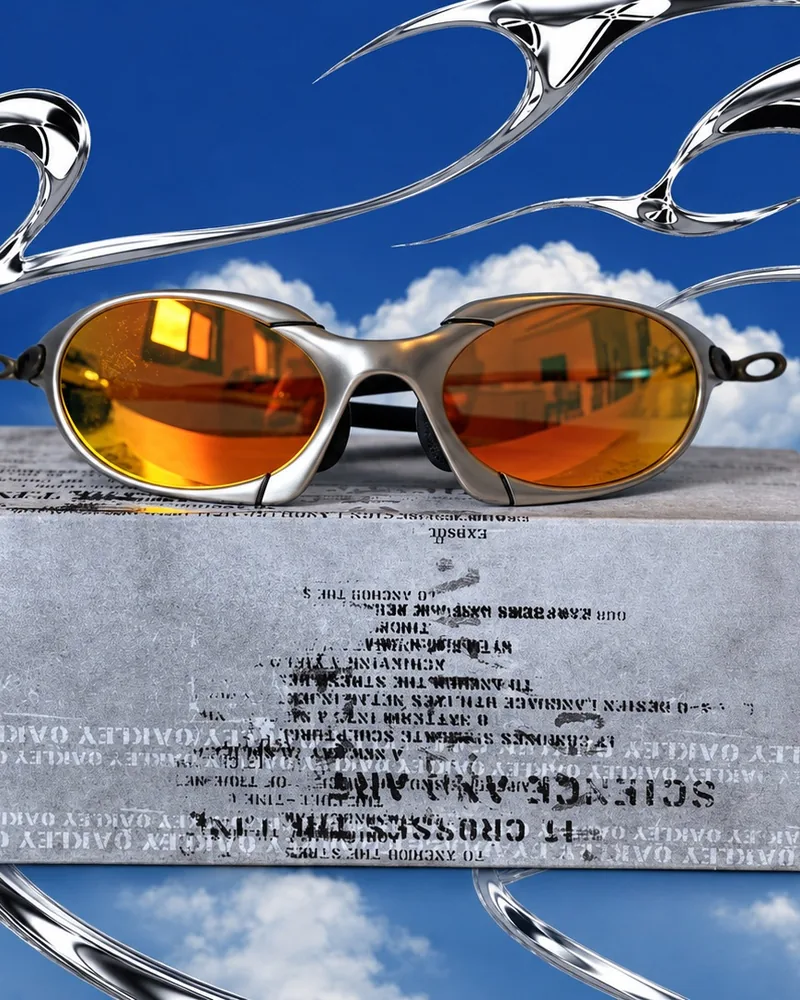
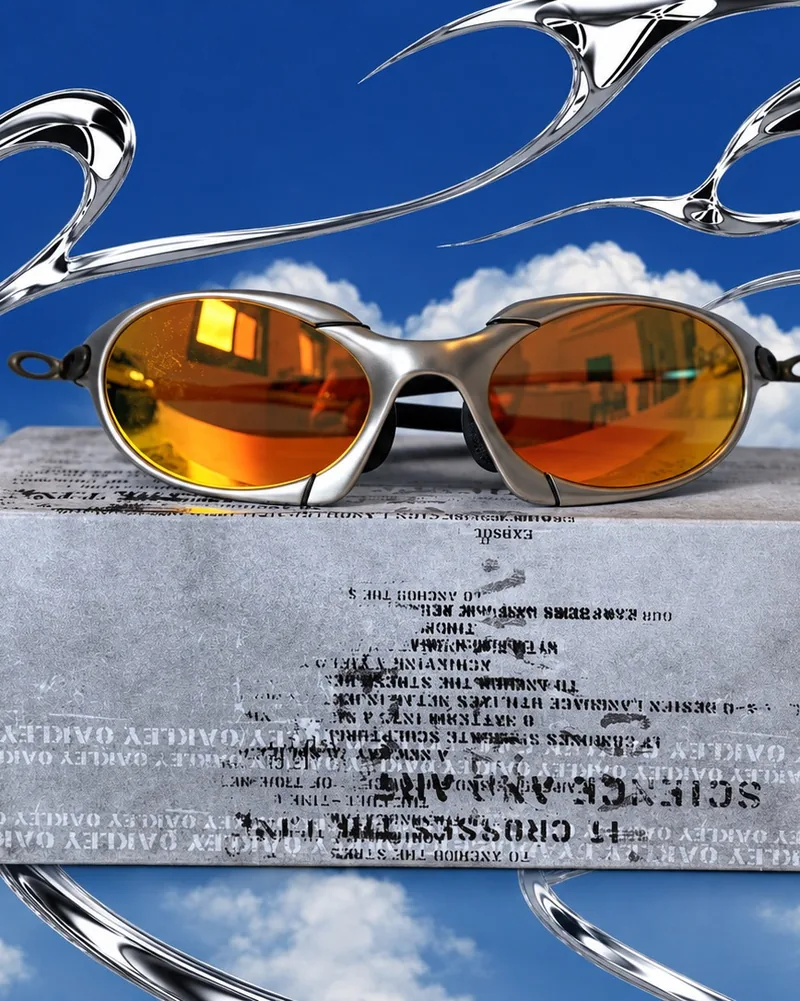
feat: גברים in place of בורדיז, the menu on the reading side, 244 centred
- the boardies tab reads גברים (Men in English); the id and links stay
- the menu and search sit on the right in Hebrew and the left in English,
  and the drawer opens from that side
- the four 244 photos re-cropped around the glasses rather than the box

diff --git a/src/components/Header.tsx b/src/components/Header.tsx
@@ -9,7 +9,7 @@ import { onPhotoError, srcSetFor } from '../photos';
 import { buyOnWhatsApp, englishOrder, fullName } from '../whatsapp';
 import { WhatsAppBadge } from './WhatsAppMark';
 import { useScrollLock } from '../useScrollLock';
-import { CATEGORY_EN, currentLang, money, setLang, tr } from '../i18n';
+import { CATEGORY_EN, currentLang, isEnglish, money, setLang, tr } from '../i18n';
 
 interface HeaderProps {
   searchTerm: string;
@@ -79,10 +79,13 @@ export default function Header({
           No fixed height: the row is the logo plus a little air above and
           almost none below, so the category row sits right under it. A fixed
           80px row left the logo floating in the middle of empty space. */}
-      <div className="px-4 sm:px-6 pt-3 pb-1 sm:pt-4 flex items-center justify-between relative">
-        
-        {/* Left Side: Hamburger (Three lines) & Search */}
-        <div className="flex items-center gap-3 md:gap-4 w-1/3 justify-start">
+      {/* The menu sits where the reading starts: on the right in Hebrew, on
+          the left in English (the owner, 2026-11-06). The page has no dir
+          attribute, so the row is mirrored here rather than by the browser. */}
+      <div className={`px-4 sm:px-6 pt-3 pb-1 sm:pt-4 flex items-center justify-between relative ${isEnglish() ? '' : 'flex-row-reverse'}`}>
+
+        {/* Hamburger (three lines) & search, the hamburger outermost */}
+        <div className={`flex items-center gap-3 md:gap-4 w-1/3 justify-start ${isEnglish() ? '' : 'flex-row-reverse'}`}>
           <button 
             type="button"
             onClick={() => setIsMobileMenuOpen(!isMobileMenuOpen)}
@@ -175,7 +178,7 @@ export default function Header({
           <div className="absolute inset-0 bg-black/40 backdrop-blur-xs animate-fade-in" onClick={() => setIsMobileMenuOpen(false)}></div>
           
           {/* Drawer Content */}
-          <div role="dialog" aria-modal="true" aria-label={tr('תפריט', 'Menu')} className="absolute inset-y-0 left-0 bg-[#fdfcf9] w-80 max-w-[85vw] h-dvh p-6 flex flex-col shadow-2xl overflow-y-auto overscroll-contain text-right animate-drawer-in">
+          <div role="dialog" aria-modal="true" aria-label={tr('תפריט', 'Menu')} className={`absolute inset-y-0 ${isEnglish() ? 'left-0 animate-drawer-in' : 'right-0 animate-drawer-in-right'} bg-[#fdfcf9] w-80 max-w-[85vw] h-dvh p-6 flex flex-col shadow-2xl overflow-y-auto overscroll-contain text-right`}>
             
             {/* Header of Drawer */}
             <div className="flex items-center justify-between pb-4 border-b border-stone-100">

diff --git a/src/components/AdminPanelModal.tsx b/src/components/AdminPanelModal.tsx
@@ -577,7 +577,7 @@ export default function AdminPanelModal({
                       onChange={(e) => setCategory(e.target.value as any)}
                       className="w-full text-right p-2 border border-stone-200 bg-white text-xs outline-none focus:border-stone-900"
                     >
-                      <option value="boardies">בורדיז (Boardies)</option>
+                      <option value="boardies">גברים (Men)</option>
                       <option value="shirts">חולצות (Shirts/Hoodies)</option>
                       <option value="pants">מכנסיים (Pants/Denim)</option>
                       <option value="accessories">אקססוריז (Accessories)</option>

diff --git a/src/index.css b/src/index.css
@@ -173,8 +173,16 @@ html[lang='en'] #store-footer .items-end {
 .animate-drawer-in {
   animation: drawerIn 0.25s cubic-bezier(0.16, 1, 0.3, 1);
 }
+/* The Hebrew drawer, which opens from the right where its button is. */
+@keyframes drawerInRight {
+  from { transform: translateX(100%); }
+  to { transform: translateX(0); }
+}
+.animate-drawer-in-right {
+  animation: drawerInRight 0.25s cubic-bezier(0.16, 1, 0.3, 1);
+}
 @media (prefers-reduced-motion: reduce) {
-  .animate-drawer-in { animation: none; }
+  .animate-drawer-in, .animate-drawer-in-right { animation: none; }
 }
 
 /* A filter's options, dropping out of the filter above them. */

diff --git a/src/App.tsx b/src/App.tsx
@@ -972,7 +972,7 @@ export default function App() {
               {[
                 {
                   id: 'boardies',
-                  name: 'בורדיז',
+                  name: 'גברים',
                   subText: 'BOARDSHORTS',
                   image: catBoardiesImg,
                   sizes: HALF_TILE_SIZES,

diff --git a/src/i18n.ts b/src/i18n.ts
@@ -57,7 +57,7 @@ export function tr(he: string, en: string): string {
 /** The shop's category names in English, by category id. */
 export const CATEGORY_EN: Record<string, string> = {
   all: 'All items',
-  boardies: 'Boardies',
+  boardies: 'Men',
   shirts: 'Tees',
   accessories: 'Accessories',
   women: 'Women',
